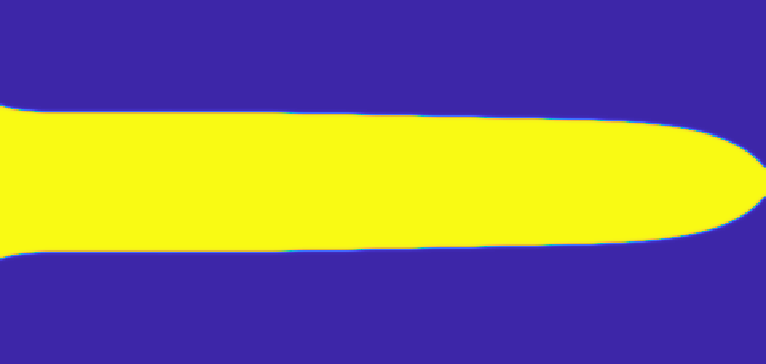
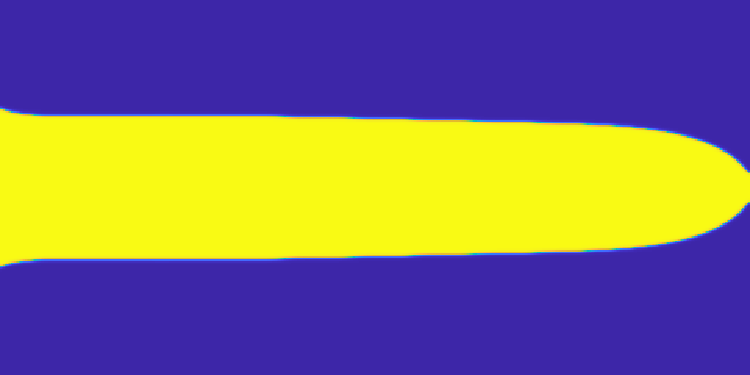
Generated figures for paper

diff --git a/src/postprocess/extractDesginProperties.m b/src/postprocess/extractDesginProperties.m
@@ -1,0 +1,70 @@
+%% Given a design computes blf, volume fraction, compliance etc
+% Assuming square elements (ie L = H)
+% Define data (temporary)
+farm = 'rom3';
+job = 'job_8';
+datfile_inp = fullfile('processed_data', farm, job, 'input.mat');
+datfile_res = fullfile('processed_data', farm, job, 'results.mat');
+% Load data
+load(datfile_inp, 'domain');
+load(datfile_res, 'xPhys', ...
+    'Emin', 'Emax', 'nu',  'pE', 'pS', 'KE');
+switch lower(domain)
+    case 'column'
+        sizex = 240;
+        sizey = 120;
+    case 'spire'
+        sizex = 240;
+        sizey = 120;
+    case 'twobar'
+        sizex = 120;
+        sizey = 280;
+end
+helem = sqrt(sizex*sizey/numel(xPhys));
+% Generate Geometry
+genfun = str2func(sprintf('generate_%s', domain));
+[X,T,i_img,j_img,soldis,voids,F,freedofs] = genfun(sizex,sizey,helem,0);
+nelem = size(T, 1);
+ndof = 2*size(X,1);
+edofMat = zeros(nelem,8);
+edofMat(:,1:2) = [2*T(:,1)-1 2*T(:,1)];
+edofMat(:,3:4) = [2*T(:,2)-1 2*T(:,2)];
+edofMat(:,5:6) = [2*T(:,3)-1 2*T(:,3)];
+edofMat(:,7:8) = [2*T(:,4)-1 2*T(:,4)];
+% BC
+bc = (1:ndof)';
+bc(freedofs) = [];
+bc(:, 2) = 0;
+
+% Compute volume fraction
+vf = sum(xPhys)*helem^2/(sizex*sizey);
+
+% Compute system matrices
+iK = reshape(kron(edofMat, ones(8,1))', 64*nelem, 1);
+jK = reshape(kron(edofMat, ones(1,8))', 64*nelem, 1);
+% Compute penalized density field
+xPenL = Emin + (Emax - Emin)*xPhys.^pE;
+xPenG = Emax*xPhys.^pE;
+
+% Compute linear first
+sK = kron(xPenL, KE(:));
+K = sparse(iK, jK, sK);
+K = (K' + K)/2;
+[R, CHOLOK, P] = chol(K(freedofs, freedofs), 'matrix');
+U = msolveq(K, F, bc, R, P);
+
+% Then compute nonlinear
+D = 1/(1-nu^2)*[ 1 nu 0;nu 1 0;0 0 (1-nu)/2];       % constitutive matrix - plane stress
+sG = computeKG(U, D, edofMat, helem, xPenG);
+KNL = sparse(iK, jK, sG);
+KNL = (KNL' + KNL)/2;
+
+% Compute comp
+comp = U'*F;
+
+% Compute blf
+[evecs, evals] = meigenSM(-KNL, K, bc, 1, R, P);
+blf = 1/evals(1);
+
+% Display
+fprintf('VQ  : %+10.3f \nCOMP: %10.3f \nBLF : %+10.3f\n', vf, comp, blf);

diff --git a/src/postprocess/plotBucklingOptApp.m b/src/postprocess/plotBucklingOptApp.m
@@ -1,0 +1,47 @@
+   %% Plot the compliance optimized shapes
+% Assuming rectangular grid
+% Define some parameters
+cmap = 'parula';
+source_dir = 'processed_data/rom3/';
+job_nbrs = 6:8;
+destin_dir = 'results/designs/blfopt_approx';
+domains = {'column', 'spire', 'twobar'};
+for k = 1:numel(domains)
+% Define domain and load compliance reference
+domain = domains{k};
+jobname = sprintf('job_%i', job_nbrs(k));
+source_filename = fullfile(source_dir, jobname, 'results.mat');
+load(source_filename, 'xPhys');
+switch lower(domain)
+    case 'column'
+        sizex = 240;
+        sizey = 120;
+    case 'spire'
+        sizex = 240;
+        sizey = 120;
+    case 'twobar'
+        sizex = 120;
+        sizey = 280;
+end
+helem = sqrt((sizex*sizey)/numel(xPhys));         % Assuming rectangular grid
+% Generate geometry
+genfun = str2func(sprintf('generate_%s', domain));
+[X,T,i_img,j_img,solids,voids,F,freedofs] = genfun(sizex,sizey,helem,0);
+% Plot design
+fig = plotDesign(i_img, j_img, xx);
+% Fix colormap
+switch lower(cmap)
+    case {'gray', 'hot'}
+        xx = 1-xPhys;
+        disp('INVERTING DENSITY FIELD');
+    otherwise 
+        xx = xPhys;
+end
+figure(fig);
+ax = gca();
+colormap(ax, cmap);
+% Save figure
+destin_filename = fullfile(destin_dir, sprintf('%s.png', domain));
+saveas(fig, destin_filename);
+close(fig);
+end

diff --git a/src/postprocess/plotBucklingOptRef.m b/src/postprocess/plotBucklingOptRef.m
@@ -1,0 +1,47 @@
+   %% Plot the compliance optimized shapes
+% Assuming rectangular grid
+% Define some parameters
+cmap = 'parula';
+source_dir = 'processed_data/ref2/';
+job_nbrs = 6:8;
+destin_dir = 'results/designs/blfopt_exact';
+domains = {'column', 'spire', 'twobar'};
+for k = 1:numel(domains)
+% Define domain and load compliance reference
+domain = domains{k};
+jobname = sprintf('job_%i', job_nbrs(k));
+source_filename = fullfile(source_dir, jobname, 'results.mat');
+load(source_filename, 'xPhys');
+switch lower(domain)
+    case 'column'
+        sizex = 240;
+        sizey = 120;
+    case 'spire'
+        sizex = 240;
+        sizey = 120;
+    case 'twobar'
+        sizex = 120;
+        sizey = 280;
+end
+helem = sqrt((sizex*sizey)/numel(xPhys));         % Assuming rectangular grid
+% Generate geometry
+genfun = str2func(sprintf('generate_%s', domain));
+[X,T,i_img,j_img,solids,voids,F,freedofs] = genfun(sizex,sizey,helem,0);
+% Plot design
+fig = plotDesign(i_img, j_img, xx);
+% Fix colormap
+switch lower(cmap)
+    case {'gray', 'hot'}
+        xx = 1-xPhys;
+        disp('INVERTING DENSITY FIELD');
+    otherwise 
+        xx = xPhys;
+end
+figure(fig);
+ax = gca();
+colormap(ax, cmap);
+% Save figure
+destin_filename = fullfile(destin_dir, sprintf('%s.png', domain));
+saveas(fig, destin_filename);
+close(fig);
+end

diff --git a/src/postprocess/computeKG.m b/src/postprocess/computeKG.m
@@ -1,0 +1,27 @@
+function sG = computeKG(U, D, edofMat, helem, eRho)
+% Domain data
+nelem = size(edofMat, 1);
+% Base matrices
+B = 1/helem*[-1/2 0 1/2 0 1/2 0 -1/2 0
+    0 -1/2 0 -1/2 0 1/2 0 1/2
+    -1/2 -1/2 -1/2 1/2 1/2 1/2 1/2 -1/2];           % strain-displacement matrix
+BNL = 1/helem*[-1/2 0 1/2 0 1/2 0 -1/2 0
+    -1/2 0 -1/2 0 1/2 0 1/2 0
+    0 -1/2 0 1/2 0 1/2 0 -1/2
+    0 -1/2 0 -1/2 0 1/2 0 1/2];                     % BNL matrix
+% Compute stress and strain
+EPS = U(edofMat)*B';
+SIG = EPS*D;
+% Compute element matrices
+sG = zeros(nelem*64,1);
+for el = 1:nelem
+    tau = [SIG(el,1) SIG(el,3) 0 0;
+            SIG(el,3) SIG(el,2) 0 0 ;
+            0 0 SIG(el,1) SIG(el,3);
+            0 0 SIG(el,3) SIG(el,2)];
+        BNLTtau = BNL'*tau;
+        BNLTtauBNL = BNLTtau*BNL;
+        l1 = (el-1)*64+1; l2 = el*64;
+        sG(l1:l2) = eRho(el)*helem^2*BNLTtauBNL(:);
+end
+end

diff --git a/src/postprocess/plotDesign.m b/src/postprocess/plotDesign.m
@@ -1,0 +1,14 @@
+function fig = plotDesign(i_img, j_img, xx)
+sizey = max(i_img);
+sizex = max(j_img);
+fig = figure(...
+    'Position', [50, 50, sizex, sizey]/helem, ...
+    'MenuBar', 'none');
+ax = axes(fig, ...
+    'Position', [0, 0, 1, 1]);
+axis(ax, 'off');
+axis(ax, 'tight')
+hold(ax, 'on');
+dimg = sparse(i_img, j_img, xx);
+imagesc(ax, dimg);
+end
